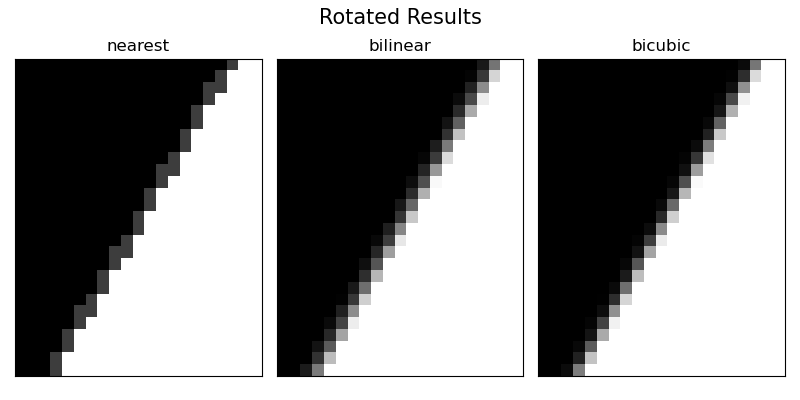
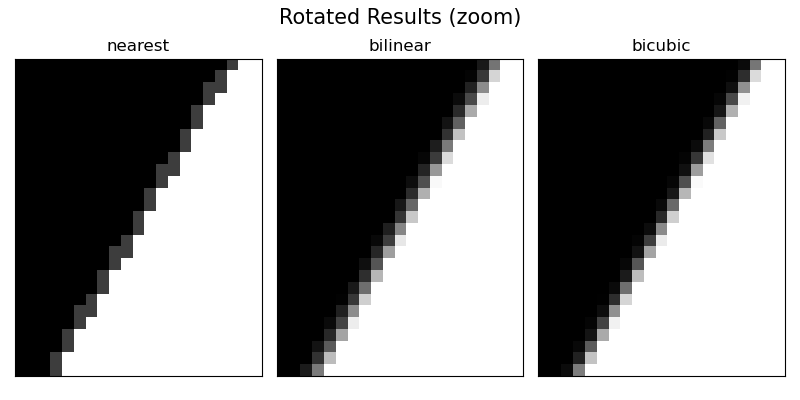
Amended description

Changed region(s): [[0.3438, 0.0, 0.6562, 0.06]]

diff --git a/Experiments/Exp.2/codes/rotating.py b/Experiments/Exp.2/codes/rotating.py
@@ -40,7 +40,7 @@ for img in rotated_img:
 
 # display the cropped images with their respective interpolation methods
 fig, axs = plt.subplots(nrows=1, ncols=3, figsize=(8, 4), num="Rotitated (zoom)")
-fig.suptitle("Rotated Results", fontsize=15)
+fig.suptitle("Rotated Results (zoom)", fontsize=15)
 for i in range(3):
     ax = axs.flat[i]
     ax.imshow(cropped_img[i], cmap='gray')
